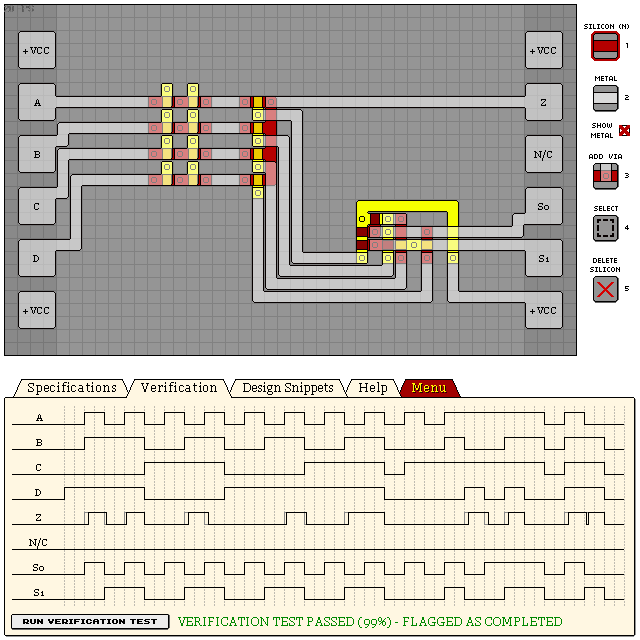
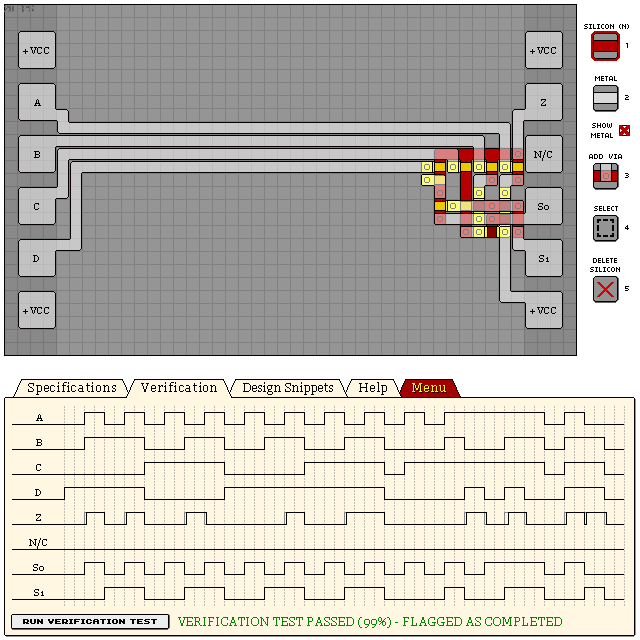
optimized KM141P

Changed region(s): [[0.0625, 0.125, 0.8438, 0.5]]

diff --git a/levels/12 KM141P 4-TO-1 MULTIPLEXER.md b/levels/12 KM141P 4-TO-1 MULTIPLEXER.md
@@ -1,53 +1,46 @@
 # KM141P - 4-TO-1 MULTIPLEXER
 
-ABCD intentionally lagged to clean up output signal. 
+Essentially just a 2-4 line decoder with a simple input switch glued on top.
 
 - Verification: Passed (99%)
-- Design Score: 301
+- Design Score: 223
 
 ```
[10 lines of base64/hex data omitted]
-17a7E77WI4XpF56yyV4=
[8 lines of base64/hex data omitted]
+/bYjOeUFWYrItA==
 ```
 
 ![12 KM141P 4-TO-1 MULTIPLEXER](./assets/12.png)
 
-## WIP
+## Traditional design
 
-Traditional multiplexer design (99%):
+"Simplified" multiplexer design by ANDing selection bits and their compliments.
+Includes inputs delays to help clean up output signal. Relatively inaccurate.
+
+(99%):
+- Verification: Passed (99%)
+- Design Score: 346
+
 ```
[11 lines of base64/hex data omitted]
-AGfSdDO1DfDjFcqU6gp4aKs7chCdMyIJ2z/DOsms
[11 lines of base64/hex data omitted]
+QE5FErZ/UvTJmA==
 ```
 
-This one is close but is short circuiting back into line decoder (99%):
-```
[8 lines of base64/hex data omitted]
-Run8yMtr998WDxaJQqvOhqXe0nmuqq1E0d6RfgCyMcjw
-```
+![12 KM141P 4-TO-1 MULTIPLEXER](./assets/12-simplified.png)
